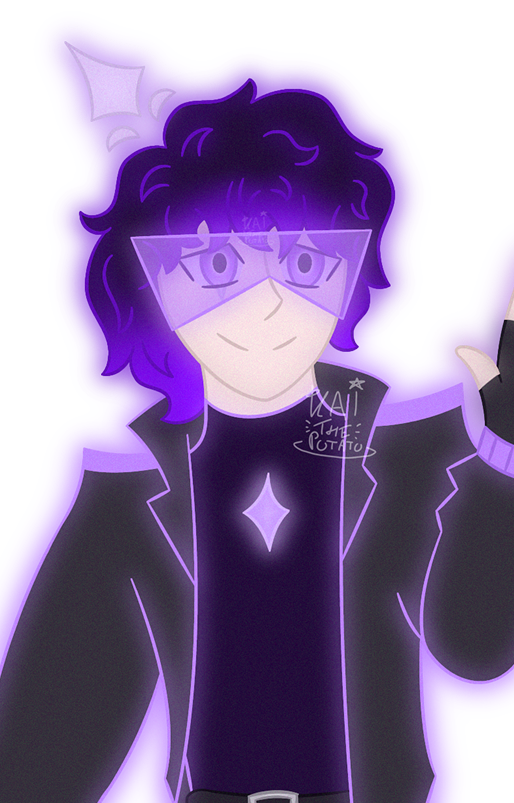
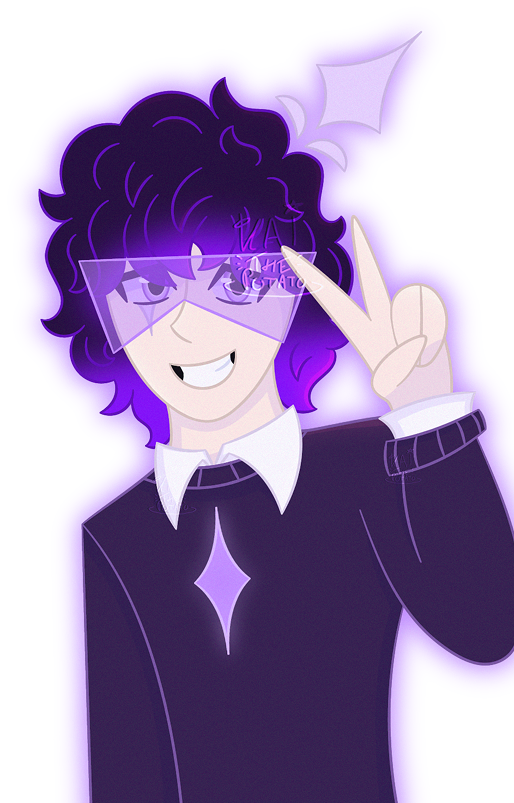
Added new Cosmo and Rocco art

diff --git a/nationPages/altipianiPages/castPages/cosmo.html b/nationPages/altipianiPages/castPages/cosmo.html
@@ -123,6 +123,16 @@
                         <img src="../altipianiImg/castImg/cosmoImg/fullHoloCosmo.png" alt="cosmoFullHoloBody">
                         <a class="creditLink" href="https://www.instagram.com/ur_artsy_potato_kai/" target="_blank" rel="noopener noreferrer">@Ur_Artsy_Potato_Kai</a>
                     </div>
+
+                    <div class="artItem">
+                        <img src="../altipianiImg/castImg/cosmoImg/headshotCosmo.png" alt="cosmoHeadshot">
+                        <a class="creditLink" href="https://www.instagram.com/ur_artsy_potato_kai/" target="_blank" rel="noopener noreferrer">@Ur_Artsy_Potato_Kai</a>
+                    </div>
+
+                    <div class="artItem">
+                        <img src="../altipianiImg/castImg/roccoImg/roccoAndHoloCosmo.png" alt="holoCosmoAndRocco">
+                        <a class="creditLink" href="https://www.instagram.com/ur_artsy_potato_kai/" target="_blank" rel="noopener noreferrer">@Ur_Artsy_Potato_Kai</a>
+                    </div>
                 </div>
 
             </div>

diff --git a/nationPages/altipianiPages/castPages/rocco.html b/nationPages/altipianiPages/castPages/rocco.html
@@ -113,6 +113,16 @@
                         <img src="../altipianiImg/castImg/roccoImg/fullRocco.png" alt="fullBodyRocco">
                         <a class="creditLink" href="https://www.instagram.com/ur_artsy_potato_kai/" target="_blank" rel="noopener noreferrer">@Ur_Artsy_Potato_Kai</a>
                     </div>
+
+                    <div class="artItem">
+                        <img src="../altipianiImg/castImg/roccoImg/headshotRocco.png" alt="headshotRocco">
+                        <a class="creditLink" href="https://www.instagram.com/ur_artsy_potato_kai/" target="_blank" rel="noopener noreferrer">@Ur_Artsy_Potato_Kai</a>
+                    </div>
+
+                    <div class="artItem">
+                        <img src="../altipianiImg/castImg/roccoImg/roccoAndHoloCosmo.png" alt="holoCosmoAndRocco">
+                        <a class="creditLink" href="https://www.instagram.com/ur_artsy_potato_kai/" target="_blank" rel="noopener noreferrer">@Ur_Artsy_Potato_Kai</a>
+                    </div>
                 </div>
 
             </div>
